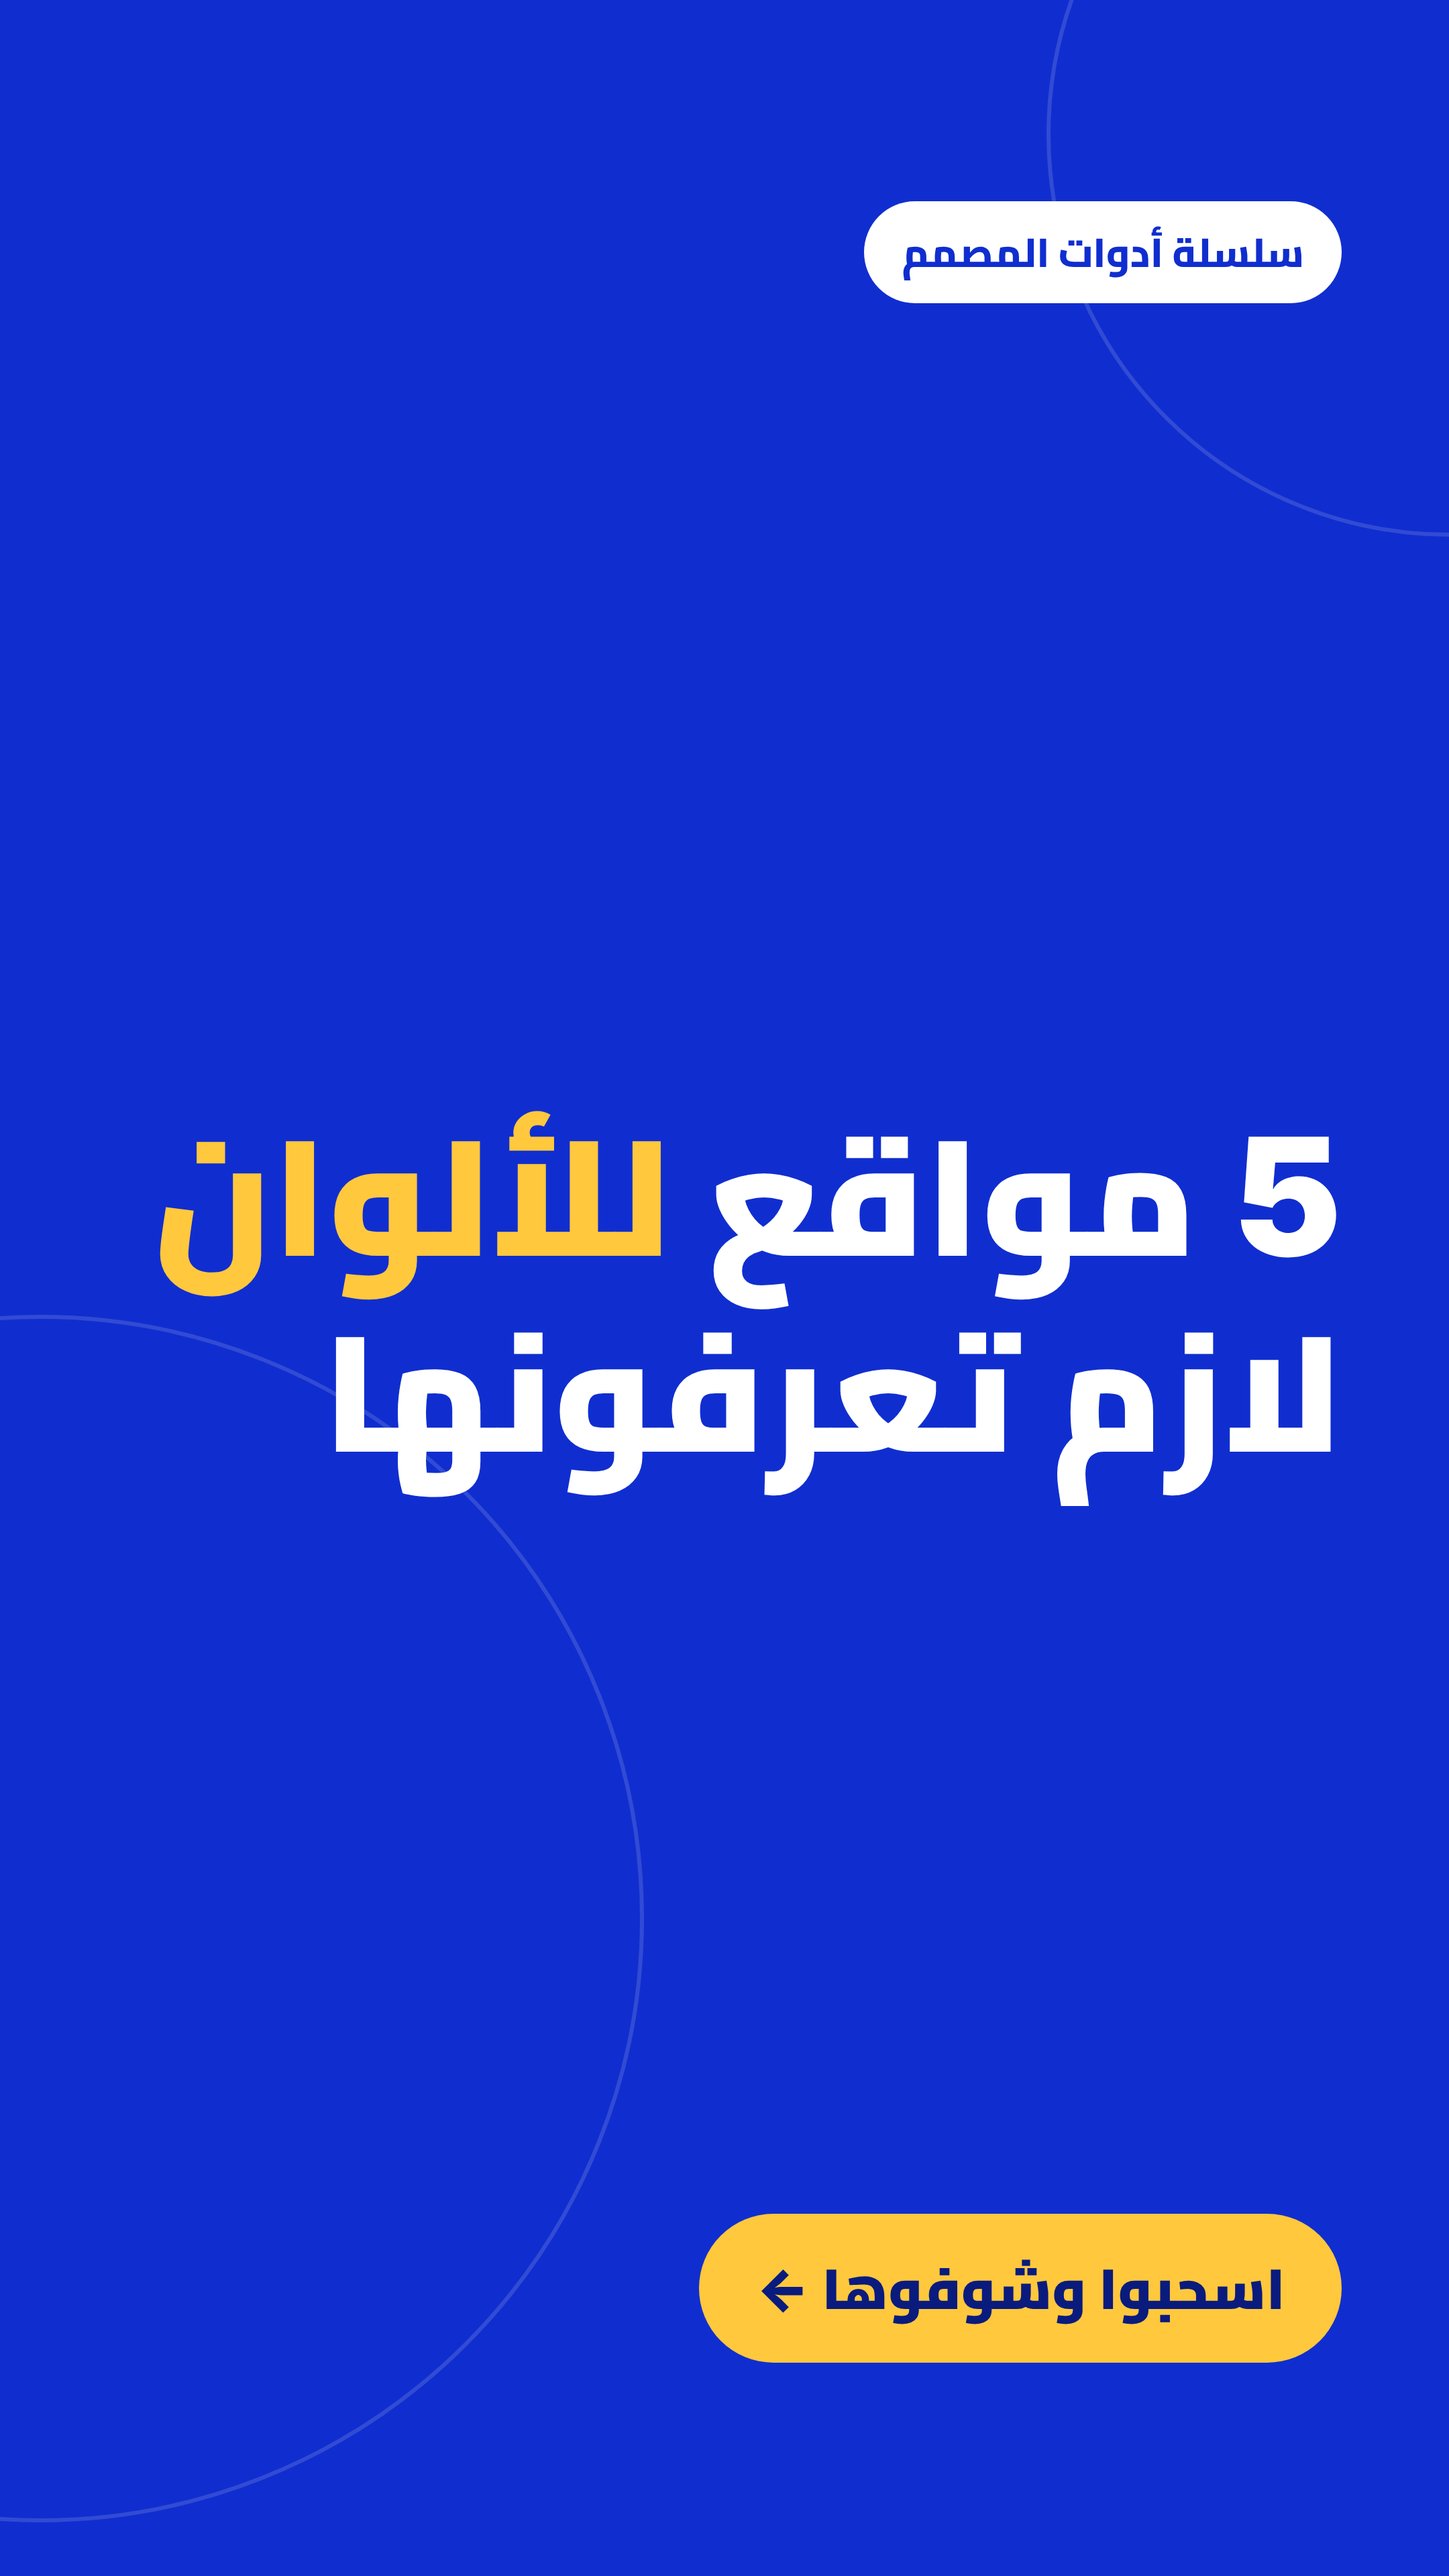
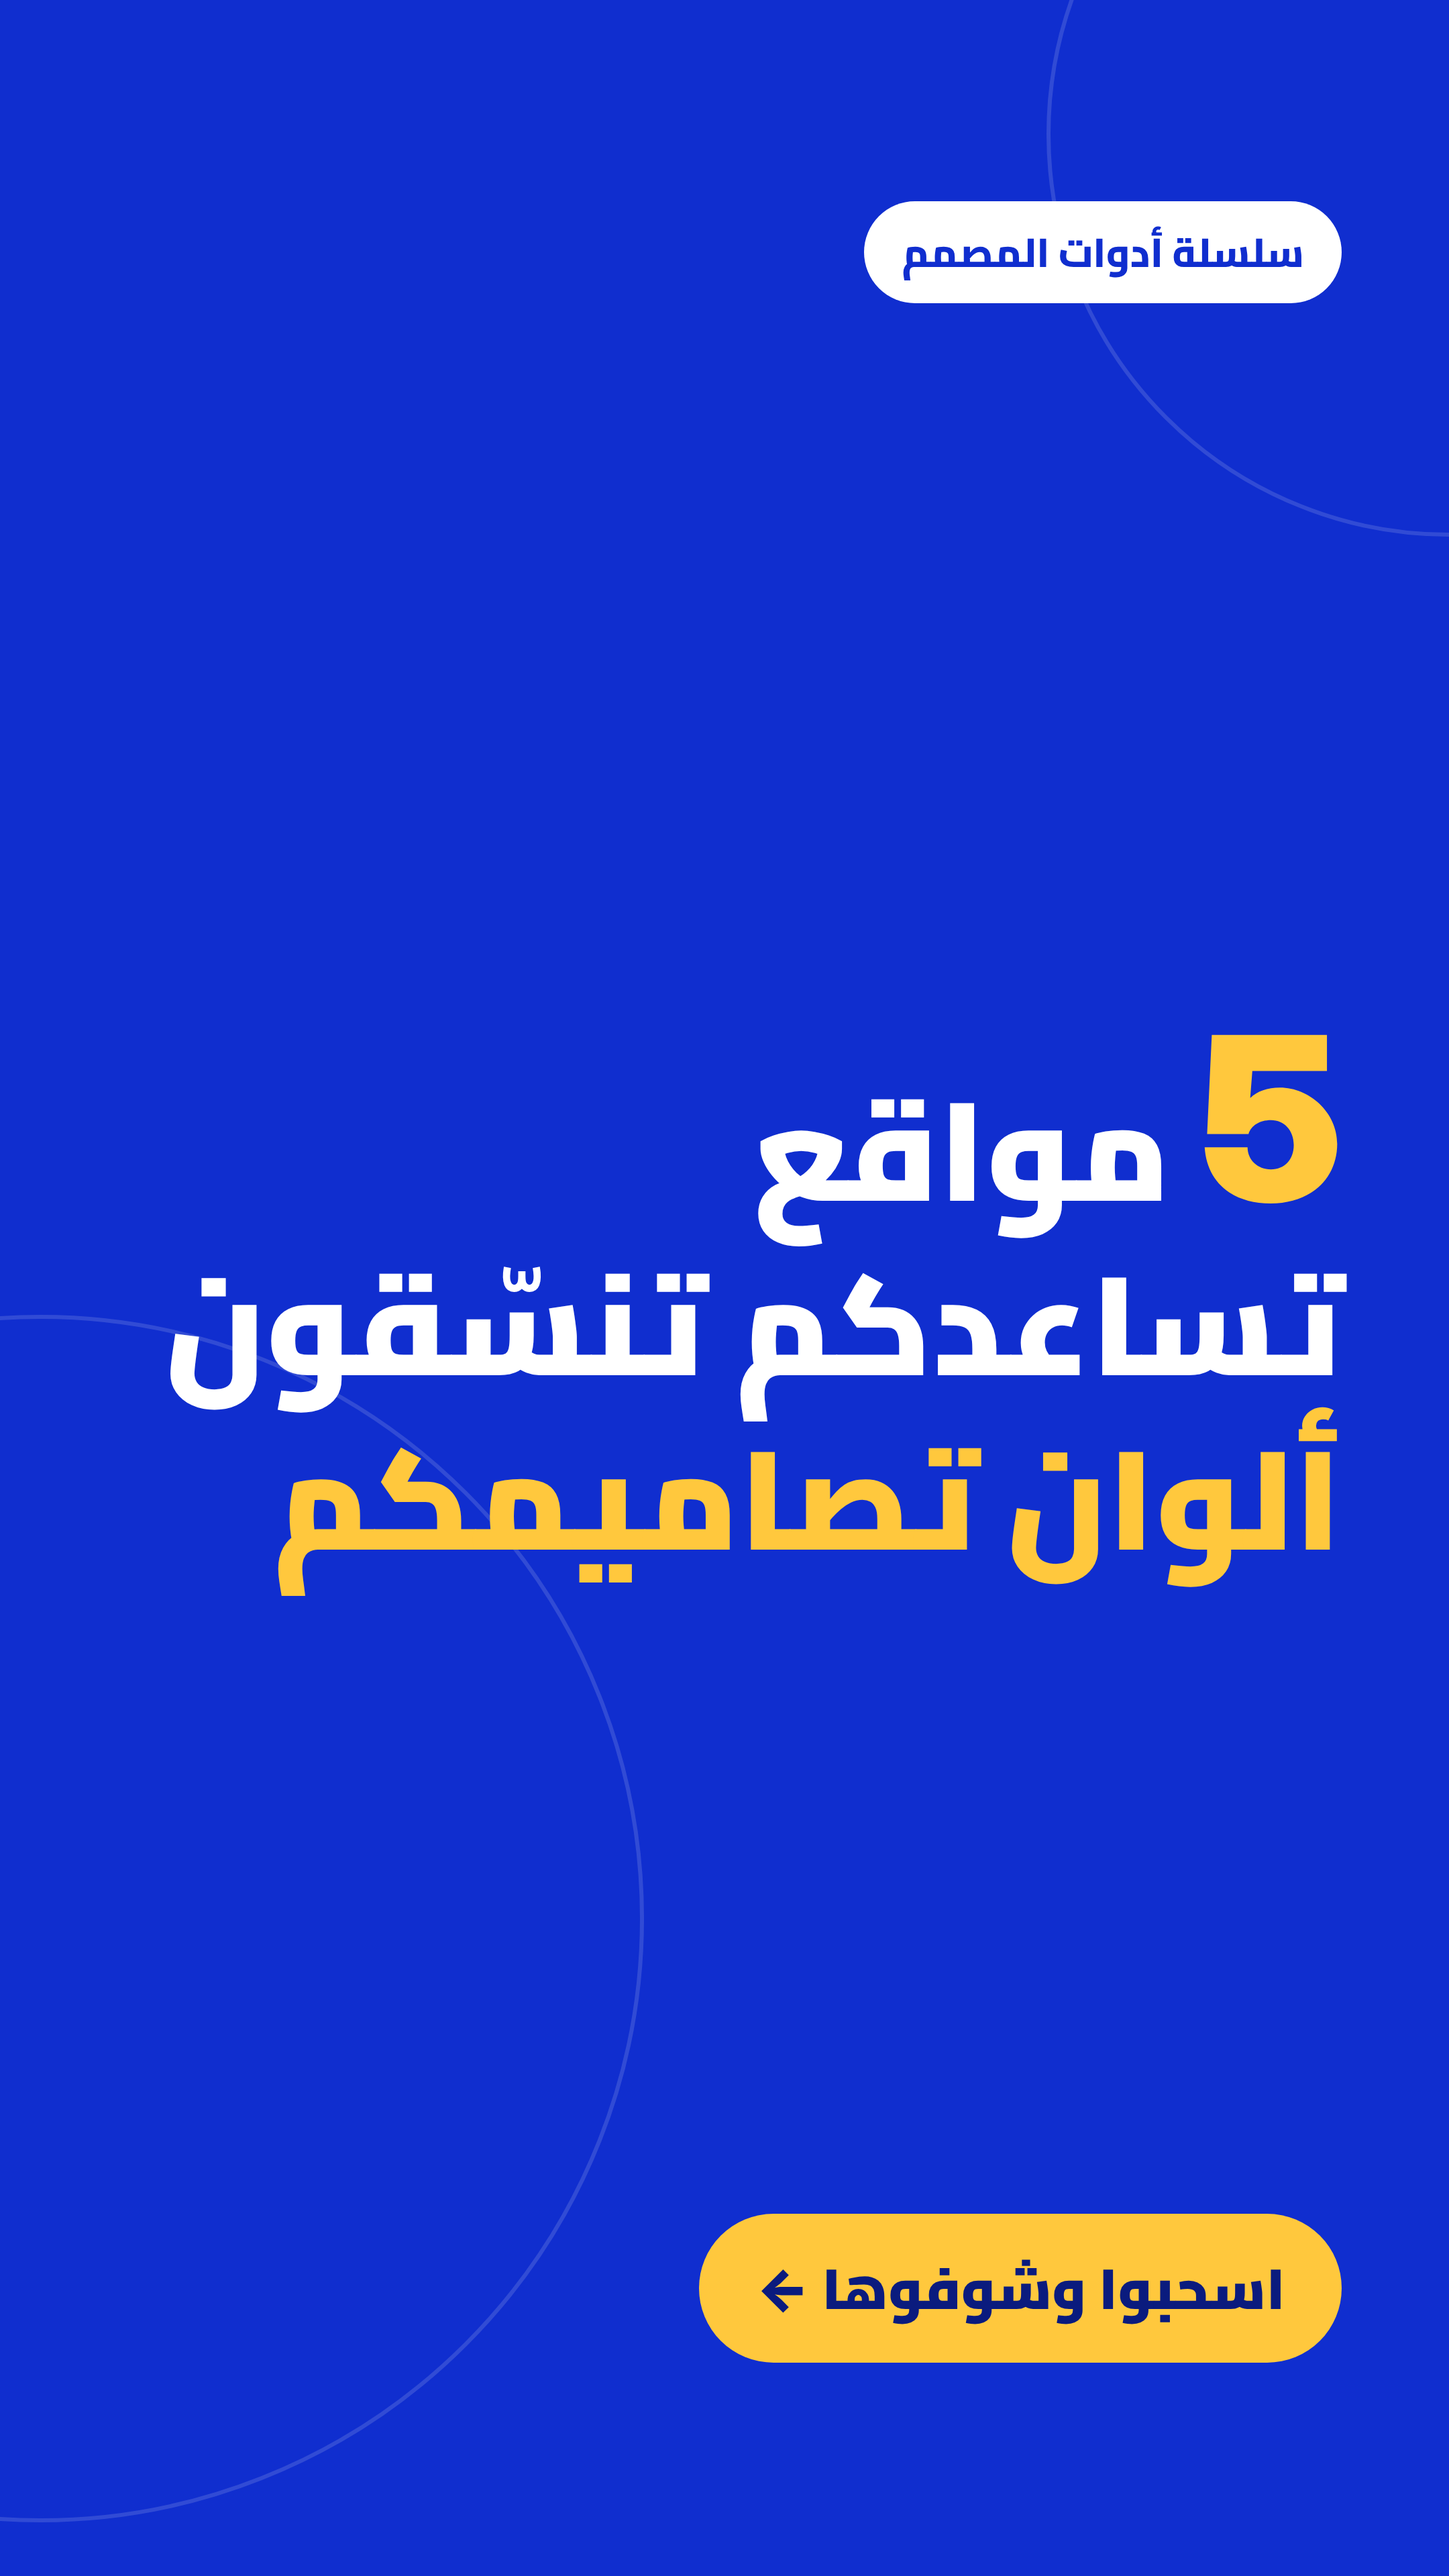
Brand cover: headline states the purpose (coordinating design colors)
Claude-Session: https://claude.ai/code/session_01HmuEa21xmTYJVbHUyErKJW

Changed region(s): [[0.0931, 0.375, 0.9306, 0.625]]

diff --git a/tiktok-color-tools/slides-brand/00-cover.html b/tiktok-color-tools/slides-brand/00-cover.html
@@ -11,14 +11,15 @@ body { background:#102ECF; color:#FFFFFF; }
 .count { position:absolute; top:158px; left:84px; font-size:34px; font-weight:800; color:rgba(255,255,255,.75); }
 
 .wrap { position:absolute; top:0; bottom:0; right:80px; left:80px; display:flex; flex-direction:column; justify-content:center; align-items:flex-start; }
-h1 { font-size:122px; font-weight:900; line-height:1.2; margin-top:10px; white-space:nowrap; }
+h1 { font-size:104px; font-weight:900; line-height:1.25; margin-top:10px; white-space:nowrap; }
+h1 .big { font-size:170px; color:#FFC83D; line-height:1; }
 h1 span { color:#FFC83D; }
 .swipe { position:absolute; top:1650px; right:80px; font-size:42px; font-weight:900; background:#FFC83D; color:#0A1B7E; padding:16px 42px; border-radius:999px; }
 </style></head><body>
 <div class="ring" style="width:900px;height:900px;left:-420px;top:980px"></div><div class="ring" style="width:600px;height:600px;right:-300px;top:-200px"></div>
 <span class="tag">سلسلة أدوات المصمم</span>
 <div class="wrap">
-<h1>5 مواقع <span>للألوان</span><br>لازم تعرفونها</h1>
+<h1><span class="big latin">5</span> مواقع<br>تساعدكم تنسّقون<br><span>ألوان تصاميمكم</span></h1>
 </div>
 <div class="swipe">اسحبوا وشوفوها ←</div>
 </body></html>

diff --git a/tiktok-color-tools/build_brand.py b/tiktok-color-tools/build_brand.py
@@ -68,14 +68,15 @@ def tool_html(t, i, total):
 def cover_html():
     return f"""<!doctype html><html lang="ar"><head><meta charset="utf-8"><title>Cover</title><style>{CSS}
 .wrap {{ position:absolute; top:0; bottom:0; right:80px; left:80px; display:flex; flex-direction:column; justify-content:center; align-items:flex-start; }}
-h1 {{ font-size:122px; font-weight:900; line-height:1.2; margin-top:10px; white-space:nowrap; }}
+h1 {{ font-size:104px; font-weight:900; line-height:1.25; margin-top:10px; white-space:nowrap; }}
+h1 .big {{ font-size:170px; color:{SUN}; line-height:1; }}
 h1 span {{ color:{SUN}; }}
 .swipe {{ position:absolute; top:1650px; right:80px; font-size:42px; font-weight:900; background:{SUN}; color:{NAVY}; padding:16px 42px; border-radius:999px; }}
 </style></head><body>
 {RINGS}
 <span class="tag">سلسلة أدوات المصمم</span>
 <div class="wrap">
-<h1>5 مواقع <span>للألوان</span><br>لازم تعرفونها</h1>
+<h1><span class="big latin">5</span> مواقع<br>تساعدكم تنسّقون<br><span>ألوان تصاميمكم</span></h1>
 </div>
 <div class="swipe">اسحبوا وشوفوها ←</div>
 </body></html>"""
